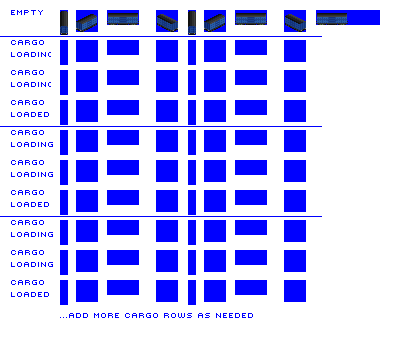
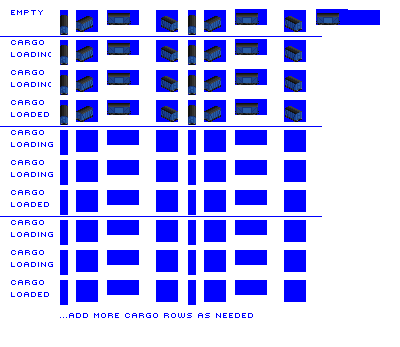
Change: adjust gen 2 brit box car

diff --git a/src/vehicles/box_cars.py b/src/vehicles/box_cars.py
@@ -33,7 +33,7 @@ consist = WagonConsist(type_config = type_config,
                     use_legacy_spritesheet = True)
 
 consist.add_unit(Wagon(type_config = type_config,
-                        consist = consist,
+                        consist = consist,  
                         capacity_freight = 20,
                         weight = 12,
                         vehicle_length = 5,
@@ -65,9 +65,9 @@ consist = WagonConsist(type_config = type_config,
 
 consist.add_unit(Wagon(type_config = type_config,
                         consist = consist,
-                        capacity_freight = 40,
-                        weight = 24,
-                        vehicle_length = 8,
+                        capacity_freight = 35,
+                        weight = 18,
+                        vehicle_length = 6,
                         loading_speed = 20))              
 
 consist.add_model_variant(intro_date=0,
